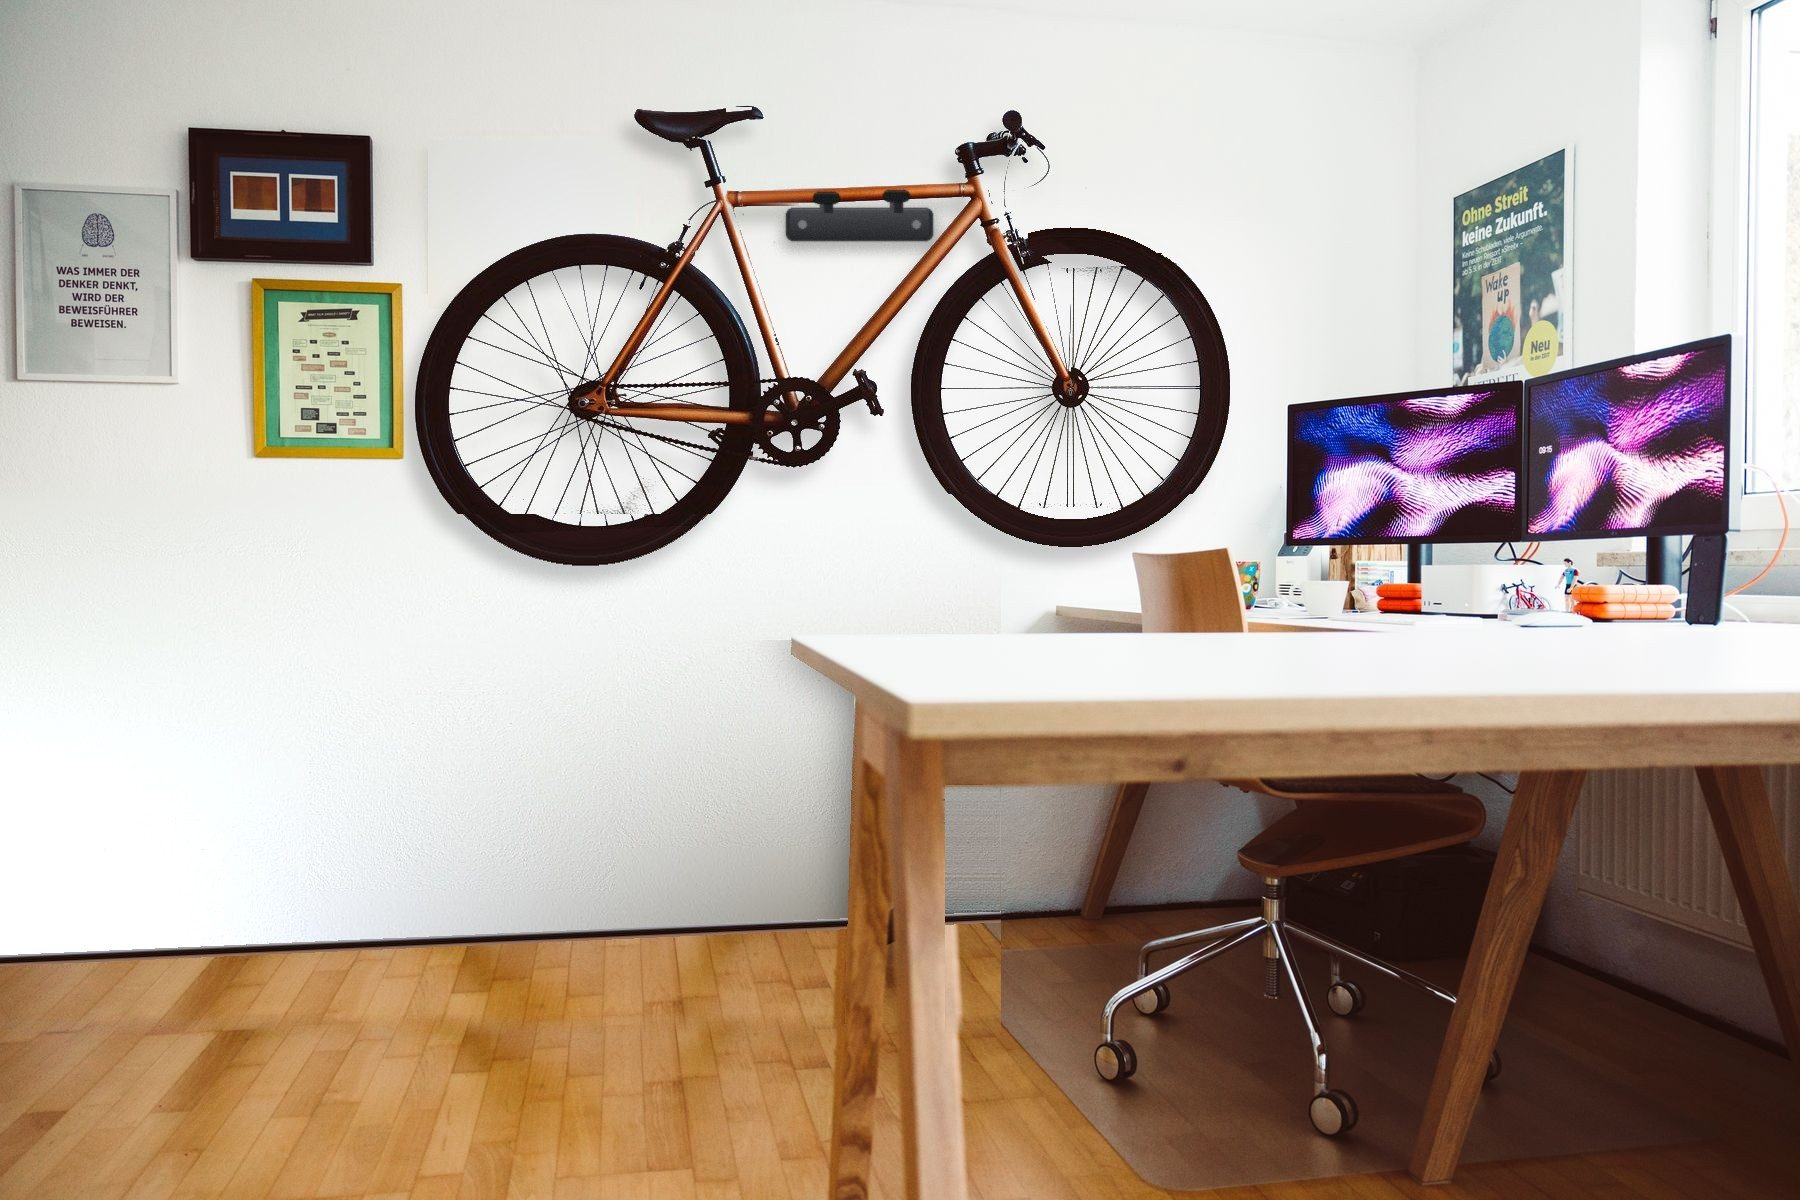
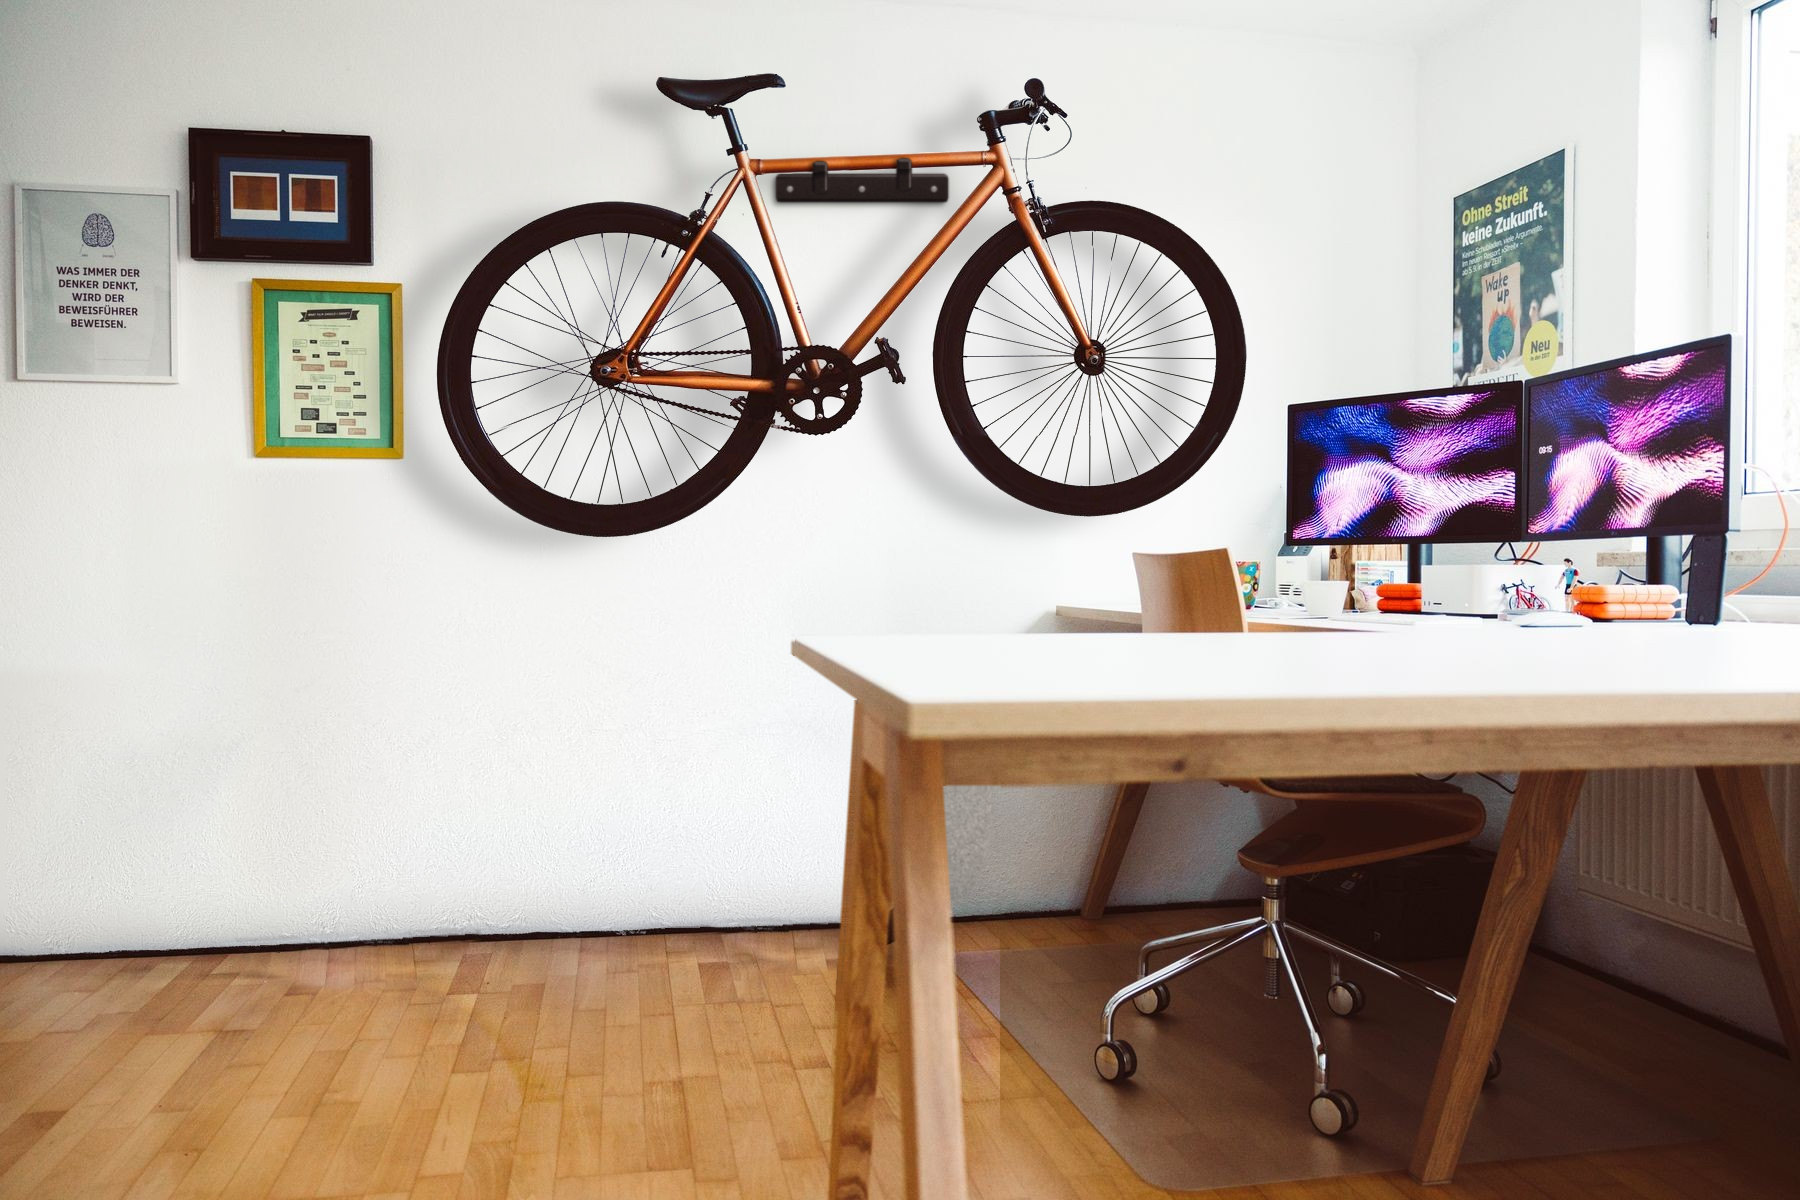
Picks page slider: redo the 'bike on the wall' photo edit and fix its labels
The after photo is rebuilt from the original stock photo: clean cutout of
the same bike, whole wheels, a soft shadow that matches the room's light,
a plain mount that carries the top tube, and the wall and floor repaired
where the bike stood. The before photo loses a faint rectangle left by an
older edit. Each slider label now hides when the divider has passed over
its side, and the image URLs carry ?v=2 so browsers fetch the new files.

Claude-Session: https://claude.ai/code/session_0197jE9sEAdXVaHGe4ZMoNot

Changed region(s): [[0.1867, 0.0617, 0.7156, 0.4933], [0.0, 0.5242, 0.56, 0.9558]]

diff --git a/picks/index.html b/picks/index.html
@@ -83,7 +83,7 @@ fieldset.picker{border:0;margin:0;padding:0}
 .cmp .knob svg{width:28px;height:28px}
 .cmp input{position:absolute;inset:0;width:100%;height:100%;opacity:0;cursor:ew-resize;margin:0}
 .cmp input:focus-visible~.knob{outline:3px solid #fff;outline-offset:3px}
-.cmp .side{position:absolute;top:14px;font:500 13px/1 var(--mono);text-transform:uppercase;letter-spacing:.06em;background:rgba(20,22,24,.62);color:#fff;padding:7px 10px;pointer-events:none}
+.cmp .side{position:absolute;top:14px;font:500 13px/1 var(--mono);text-transform:uppercase;letter-spacing:.06em;background:rgba(20,22,24,.62);color:#fff;padding:7px 10px;pointer-events:none;transition:opacity .15s}
 .cmp .s1{left:14px}.cmp .s2{right:14px}
 .note{font-size:14px;color:var(--fg-2);margin-top:10px}
 @media (max-width:640px){.cmp{aspect-ratio:4/5}.cmp img{object-position:28% 50%}}
@@ -457,8 +457,8 @@ footer strong{color:var(--fg);font-weight:600;display:block;margin-bottom:4px}
 <section class="compare" aria-labelledby="h-cmp">
   <div class="gh"><div><p class="label rise">Why bother</p><h2 id="h-cmp" class="rise">Same room. Floor back.</h2></div><p class="rise">Drag the line to compare. A typical adult bike is about 69 × 24 in, so it covers roughly 11 sq ft of floor.</p></div>
   <div class="cmp rise" id="cmp">
-    <img src="../assets/office-floor.jpg" alt="A home office with a bike leaning against the wall on the floor" loading="lazy">
-    <img class="after" src="../assets/office-wall.jpg" alt="The same home office with the bike hung on a wall mount and the floor clear" loading="lazy">
+    <img src="../assets/office-floor.jpg?v=2" alt="A home office with a bike leaning against the wall on the floor" loading="lazy">
+    <img class="after" src="../assets/office-wall.jpg?v=2" alt="The same home office with the bike hung on a wall mount and the floor clear" loading="lazy">
     <span class="side s1">Bike on the floor</span><span class="side s2">Floor back</span>
     <span class="line" aria-hidden="true"></span>
     <input type="range" min="0" max="100" value="50" aria-label="Compare the room with and without the bike">
@@ -608,8 +608,9 @@ const revealPast=()=>document.querySelectorAll('.rise:not(.in)').forEach(el=>{if
 addEventListener('scroll',revealPast,{passive:true});setTimeout(revealPast,400);
 requestAnimationFrame(()=>document.querySelector('.hero h1').classList.add('in'));
 // compare slider
-const cmp=document.getElementById('cmp'),rng=cmp.querySelector('input');
-const setX=v=>cmp.style.setProperty('--x',v+'%');rng.addEventListener('input',()=>setX(rng.value));
+const cmp=document.getElementById('cmp'),rng=cmp.querySelector('input'),s1=cmp.querySelector('.s1'),s2=cmp.querySelector('.s2');
+// each label names its own side, so it hides once the line has passed over most of it
+const setX=v=>{cmp.style.setProperty('--x',v+'%');const px=cmp.clientWidth*v/100;s1.style.opacity=px<s1.offsetLeft+s1.offsetWidth/2?0:1;s2.style.opacity=px>s2.offsetLeft+s2.offsetWidth/2?0:1};rng.addEventListener('input',()=>setX(rng.value));
 // ride filter
 const picks=[...document.querySelectorAll('.pick:not(.none)')],count=document.getElementById('count');
 const names={road:'road, gravel or hybrid bike',mtb:'mountain bike',ebike:'e-bike'};
